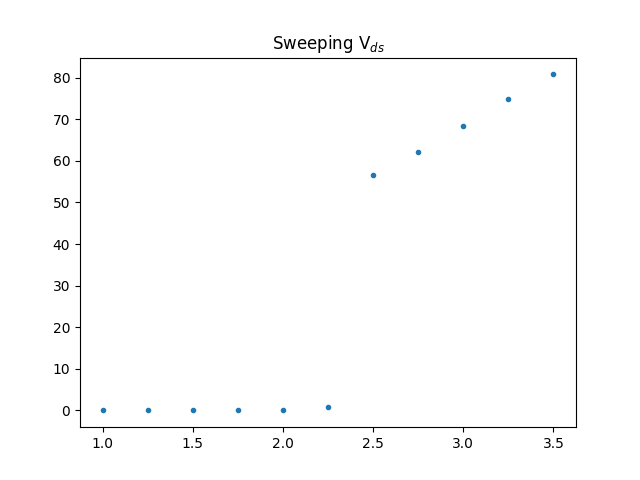
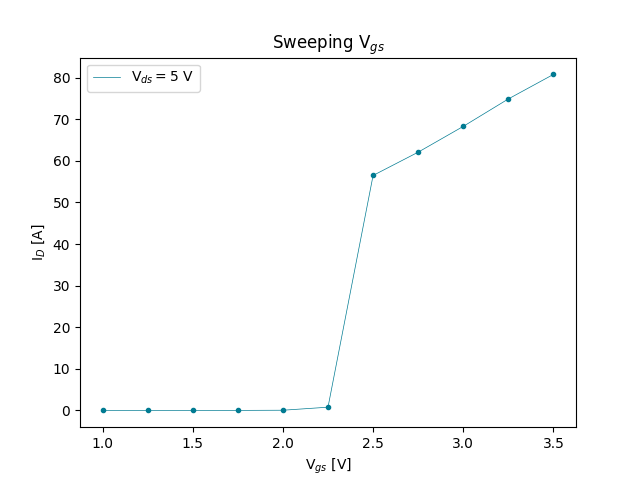
I redid the plotting which means it is now class-based. Probably put a little too much effort into that haha.

diff --git a/lab4/plotting.py b/lab4/plotting.py
@@ -3,6 +3,39 @@ import pandas as pd
 import os
 
 OUT_DIR = "./imgs/meas/"
+COLORS = ['xkcd:ocean', 'xkcd:crimson', 'xkcd:light forest green']
+
+class Plot():
+    def __init__(self, **kwargs):
+        self.plot_data = {
+            'title': "Title",
+            'xlabel': "X Label",
+            'ylabel': "Y Label",
+            'filename': 'img.png',
+            'graphs': None
+        }
+        for key in self.plot_data.keys():
+            try:
+                self.plot_data[key] = kwargs[key]
+            except KeyError:
+                continue
+        
+        self.f = plt.figure()
+
+    def makeplot(self):
+        i = 0
+        for graph in self.plot_data['graphs']:
+            plt.plot(graph['df'], '.', color=COLORS[i % len(COLORS)])
+            plt.plot(graph['df'], linewidth=0.5, color=COLORS[i % len(COLORS)], label=graph['label'])
+            i += 1
+        plt.legend()
+        plt.title(self.plot_data['title'])
+        plt.xlabel(self.plot_data['xlabel'])
+        plt.ylabel(self.plot_data['ylabel'])
+        self.f.savefig(os.path.join(OUT_DIR, self.plot_data['filename']))
+    
+    
+
 
 def main():
     v1 = [1, 1.25,1.5,1.75,2,2.25,2.5,2.75,3,3.25,3.5]
@@ -18,27 +51,42 @@ def main():
     vgs30 = pd.DataFrame(i2_2, v2)
     vgs35 = pd.DataFrame(i2_3, v2)
 
-    plot1(vds50)
-    plot2(vgs25, vgs30, vgs35)
-
-def plot1(df):
-    f = plt.figure()
-    plt.plot(df, '.')
-    plt.title("Sweeping V$_{ds}$")
-    f.savefig(os.path.join(OUT_DIR, "sweepvds.png"))
-
-def plot2(*dfs):
-    f = plt.figure()
-    colors = ['xkcd:ocean', 'xkcd:crimson', 'xkcd:light forest green']
-    i = 0
-    for df in dfs:
-        plt.plot(df, '.', color=colors[i % len(colors)])
-        plt.plot(df, linewidth=0.2, color=colors[i % len(colors)])
-        i += 1
-    plt.xlabel("This is a new x label")
-
-    f.savefig(os.path.join(OUT_DIR, "sweepvgs.png"))
-
+    p1_data = {
+        'graphs': [
+            {
+            'label': "V$_{ds}=5$ V",
+            'df': vds50
+        },
+        ],
+        'title': "Sweeping V$_{gs}$",
+        'xlabel': "V$_{gs}$ [V]",
+        'ylabel': "I$_D$ [A]",
+        'filename': 'sweepvds.png'
+    }
+    p2_data = {
+        'graphs': [
+            {
+            'label': "V$_{gs}=2.5$ V",
+            'df': vgs25
+        },
+            {
+            'label': "V$_{gs}=3.0$ V",
+            'df': vgs30
+        },
+            {
+            'label': "V$_{gs}=3.5$ V",
+            'df': vgs35
+        },
+        ],
+        'title': "Sweeping V$_{gs}$",
+        'xlabel': "V$_{gs}$ [V]",
+        'ylabel': "I$_D$ [A]",
+        'filename': 'sweepvgs.png'
+    }
+    p1 = Plot(**p1_data)
+    p1.makeplot()
+    p2 = Plot(**p2_data)
+    p2.makeplot()
 
 
 if __name__ == '__main__':
